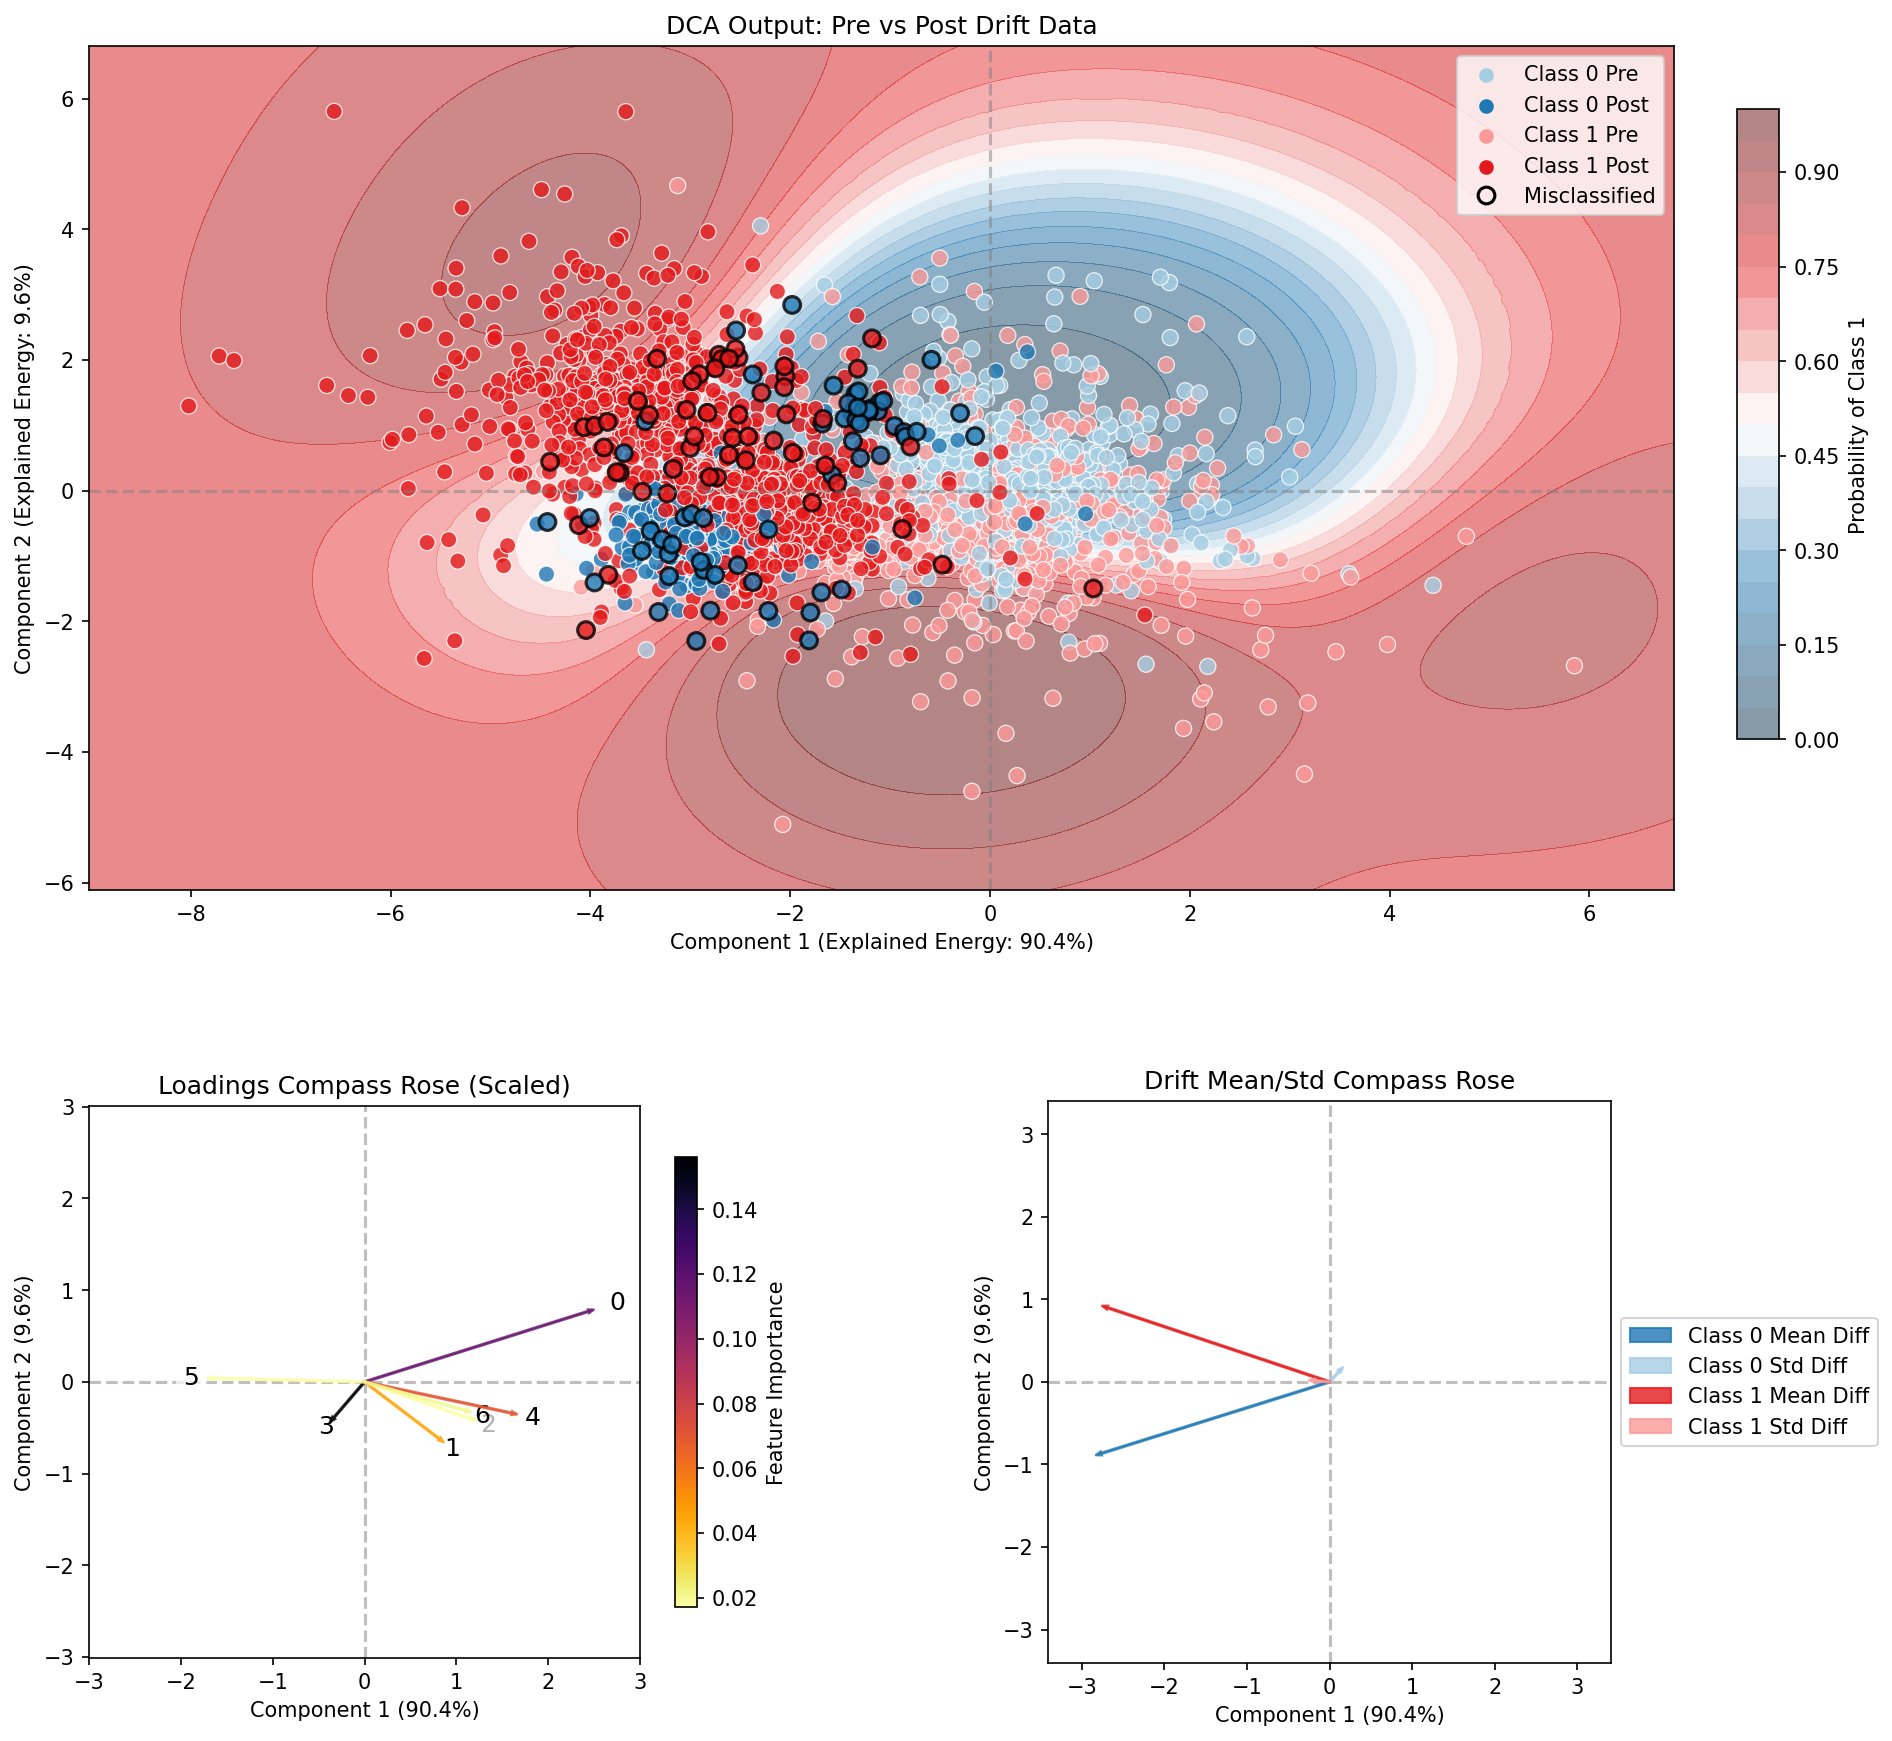
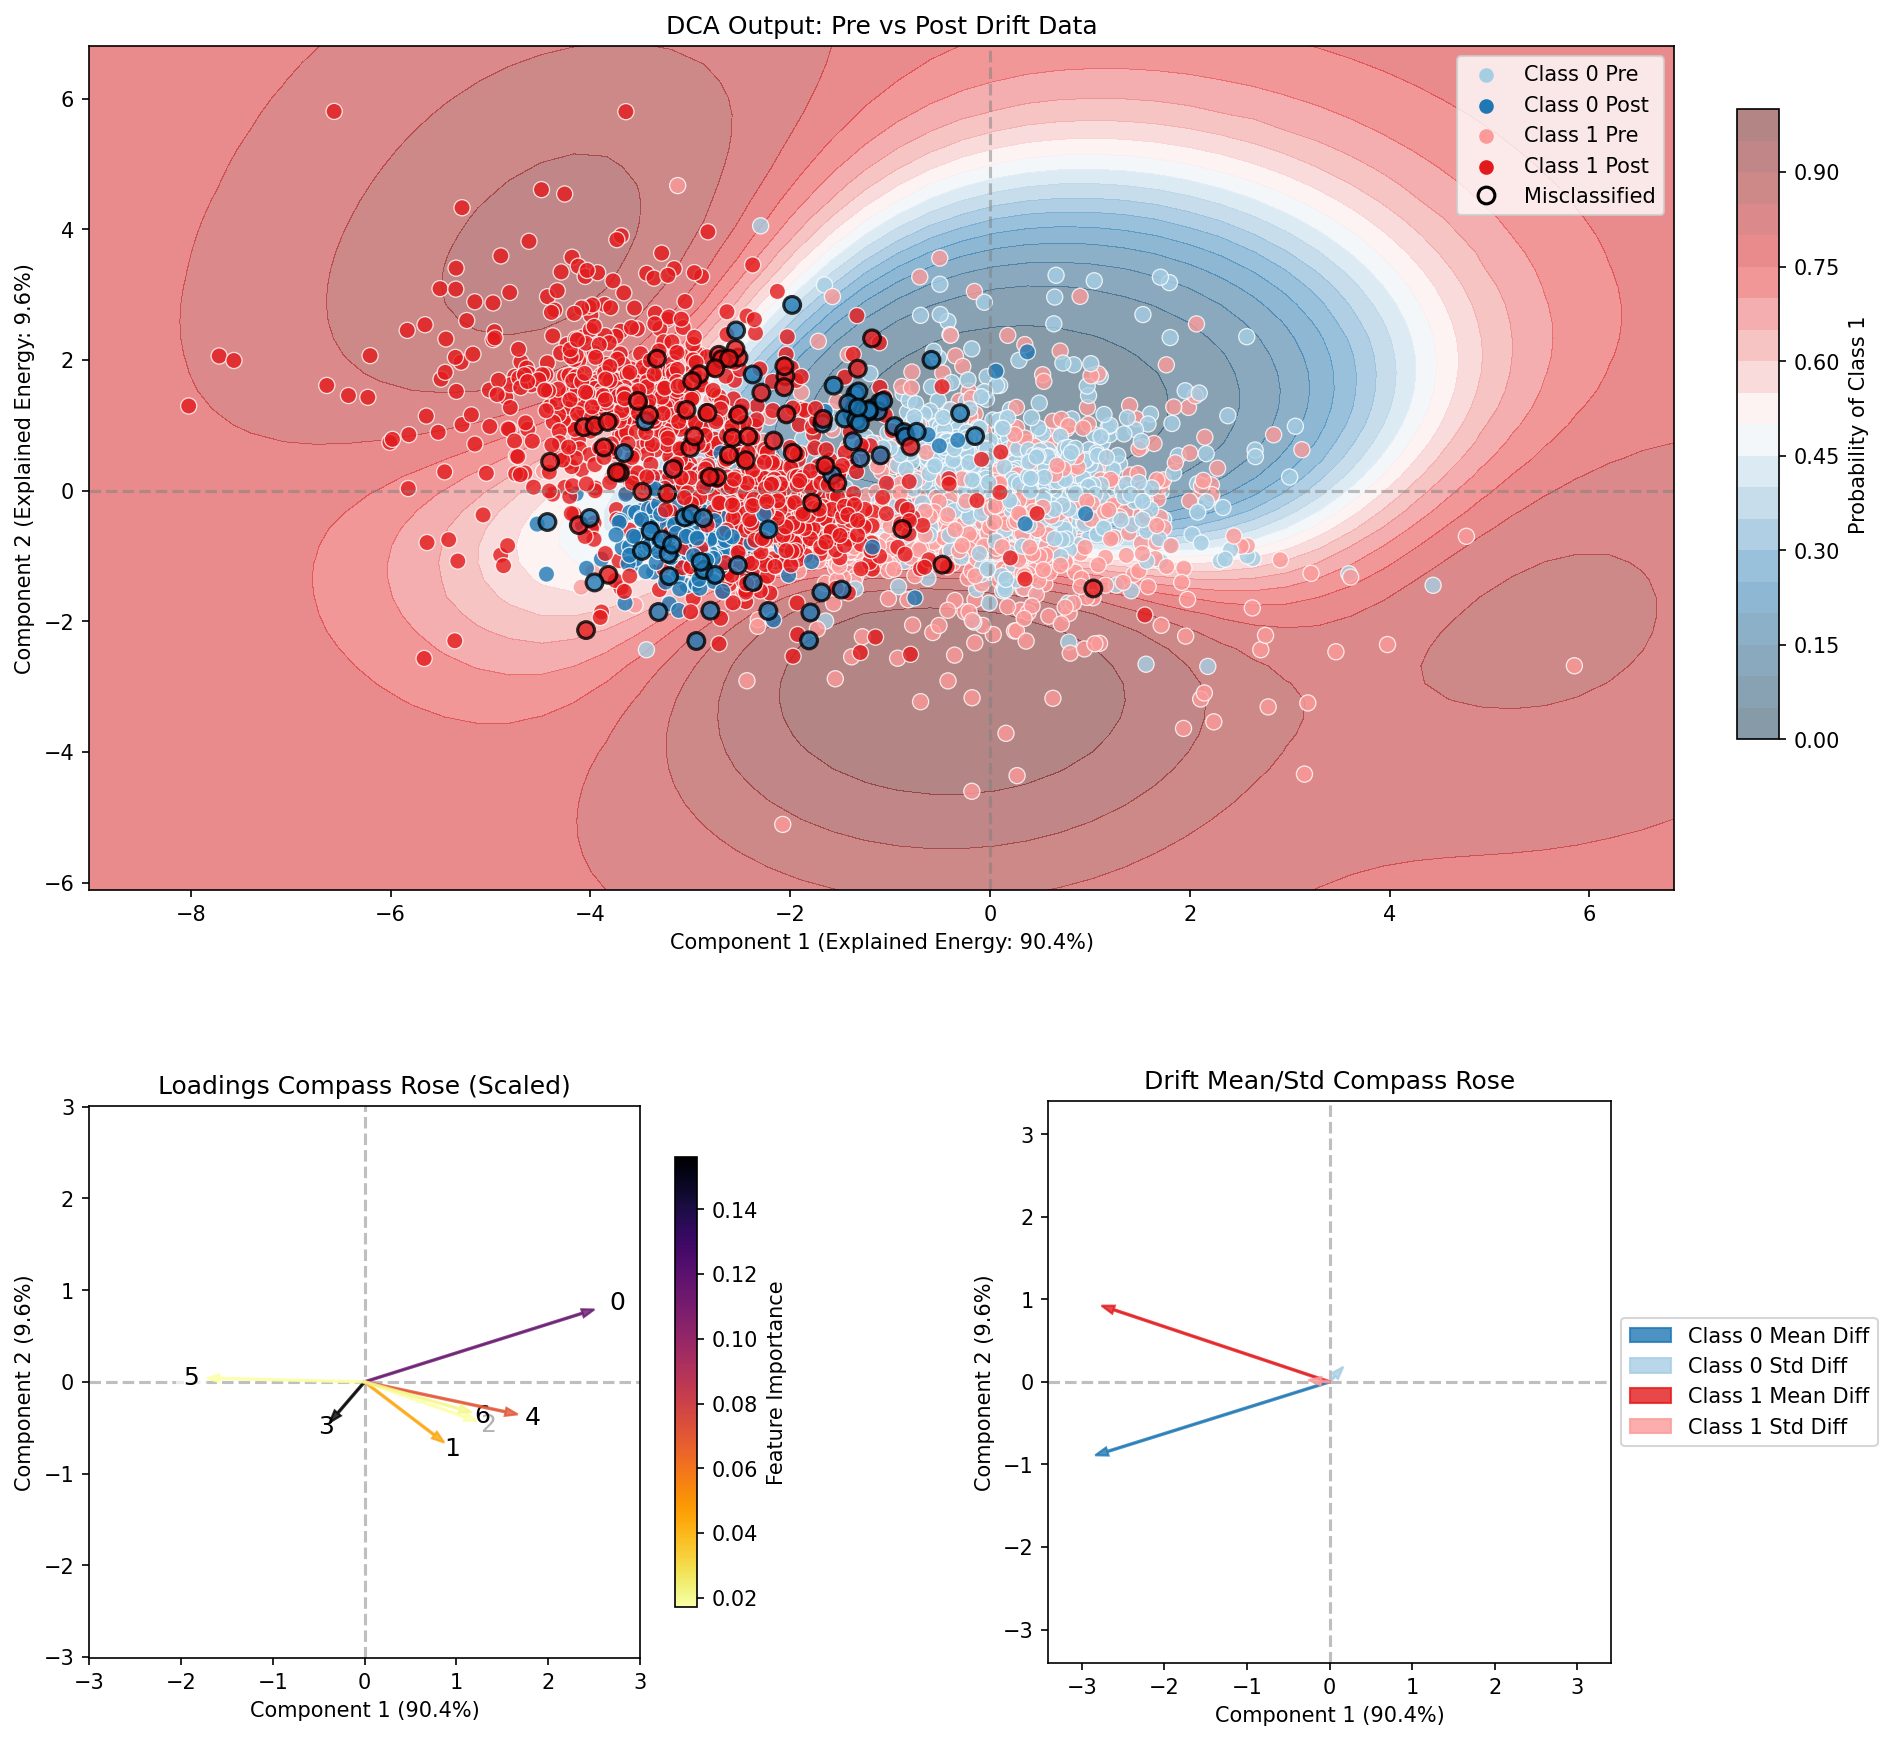
Add gradual alpha

diff --git a/analysis_methods/dca2_utils.py b/analysis_methods/dca2_utils.py
@@ -45,9 +45,6 @@ def plot_dca_scatter(X_pre, y_pre, X_post, y_post, dca, ax,
     X_post_proj = dca.transform(X_post)
     
     classes = np.unique(np.concatenate([y_pre, y_post]))
-    if color_scheme == 'class' and len(classes) > 6:
-        logger.warning(f"Too many classes ({len(classes)}) for paired class palette. Maximum is 6.")
-        raise ValueError(f"Too many classes ({len(classes)}) for paired class palette. Maximum is 6.")
         
     # Set hue strings
     if color_scheme == 'drift':
@@ -82,8 +79,8 @@ def plot_dca_scatter(X_pre, y_pre, X_post, y_post, dca, ax,
             return mcolors.to_hex([c * factor for c in rgb])
 
         full_palette = get_paired_class_palette()
-        light_colors = [full_palette[2*i] for i in range(len(classes))]
-        dark_colors = [full_palette[2*i+1] for i in range(len(classes))]
+        light_colors = [full_palette[(2*i) % len(full_palette)] for i in range(len(classes))]
+        dark_colors = [full_palette[(2*i+1) % len(full_palette)] for i in range(len(classes))]
         extreme_colors = [darken_hex(c) for c in dark_colors]
         class_to_idx = {c: i for i, c in enumerate(classes)}
         
@@ -110,7 +107,7 @@ def plot_dca_scatter(X_pre, y_pre, X_post, y_post, dca, ax,
         hue_order = ["Pre-drift", "Post-drift"]
     else:
         full_palette = get_paired_class_palette()
-        palette = full_palette[:len(classes)*2]
+        palette = [full_palette[i % len(full_palette)] for i in range(len(classes)*2)]
         hue_order = []
         for c in classes:
             hue_order.extend([f"Class {c} Pre", f"Class {c} Post"])
@@ -126,6 +123,8 @@ def plot_dca_scatter(X_pre, y_pre, X_post, y_post, dca, ax,
             misclassified_flag = (y_post != y_post_pred)
         else:
             misclassified_flag = np.zeros(len(y_post), dtype=bool)
+            
+        ages = np.linspace(0.4, 0.95, len(y_post)) if drift_type == 'gradual' else np.full(len(y_post), 0.8)
     else:
         plot_df = pd.DataFrame({
             "Component 1": np.concatenate([X_pre_proj[:, 0], X_post_proj[:, 0]]),
@@ -138,34 +137,62 @@ def plot_dca_scatter(X_pre, y_pre, X_post, y_post, dca, ax,
             misclassified_flag = np.concatenate([np.zeros(len(y_pre), dtype=bool), misclassified])
         else:
             misclassified_flag = np.zeros(len(y_pre) + len(y_post), dtype=bool)
+            
+        if drift_type == 'gradual':
+            ages = np.concatenate([
+                np.linspace(0.4, 0.95, len(y_pre)), 
+                np.linspace(0.4, 0.95, len(y_post))
+            ])
+        else:
+            ages = np.full(len(y_pre) + len(y_post), 0.8)
 
     plot_df["Misclassified_Flag"] = misclassified_flag
+    plot_df["Age"] = ages
+
+    # Map labels to base colors
+    color_map = {label: mcolors.to_rgb(color) for label, color in zip(hue_order, palette)}
+    base_colors = np.array([color_map[label] for label in plot_df["Label"]])
+    
+    # Calculate RGBA values for all points
+    rgba_colors = np.zeros((len(plot_df), 4))
+    rgba_colors[:, :3] = base_colors
+    rgba_colors[:, 3] = plot_df["Age"].values
+    
+    correct_mask = ~plot_df["Misclassified_Flag"].values
+    misclassified_mask = plot_df["Misclassified_Flag"].values
+    
+    # Plot correctly classified (in natural array order to preserve z-order across time)
+    if np.any(correct_mask):
+        ax.scatter(plot_df["Component 1"].values[correct_mask], 
+                   plot_df["Component 2"].values[correct_mask], 
+                   c=rgba_colors[correct_mask], s=60, edgecolors='white', linewidth=0.5)
+                   
+    # Plot misclassified on top
+    if np.any(misclassified_mask):
+        ax.scatter(plot_df["Component 1"].values[misclassified_mask], 
+                   plot_df["Component 2"].values[misclassified_mask], 
+                   c=rgba_colors[misclassified_mask], s=65, edgecolors='black', linewidth=1.5)
+
+    # Add legend entries manually
+    handles = []
+    labels = []
+    for label, color in zip(hue_order, palette):
+        if label not in plot_df["Label"].values:
+            continue
+        handle = mlines.Line2D([], [], color='none', marker='o',
+                               markerfacecolor=color, markeredgecolor='white',
+                               markersize=8, label=label, alpha=0.8)
+        handles.append(handle)
+        labels.append(label)
 
     if highlight_misclassifications and pre_drift_model is not None:
-        # Plot correctly classified points and pre-drift points normally
-        sns.scatterplot(
-            data=plot_df[~plot_df["Misclassified_Flag"]], x="Component 1", y="Component 2", hue="Label",
-            palette=palette, hue_order=hue_order, alpha=0.8, s=60, ax=ax, legend=True
-        )
-        # Overlay misclassified points with a prominent black border
-        sns.scatterplot(
-            data=plot_df[plot_df["Misclassified_Flag"]], x="Component 1", y="Component 2", hue="Label",
-            palette=palette, hue_order=hue_order, alpha=0.8, s=65, edgecolor="black", linewidth=1.5, ax=ax, legend=False
-        )
-        
-        # Add custom legend entry for misclassifications
-        handles, labels = ax.get_legend_handles_labels()
         misclassified_handle = mlines.Line2D([], [], color='none', marker='o', 
                                              markeredgecolor='black', markerfacecolor='none', 
                                              markersize=8, markeredgewidth=1.5, label='Misclassified')
         handles.append(misclassified_handle)
         labels.append('Misclassified')
-        ax.legend(handles=handles, labels=labels)
-    else:
-        sns.scatterplot(
-            data=plot_df, x="Component 1", y="Component 2", hue="Label",
-            palette=palette, hue_order=hue_order, alpha=0.8, s=60, ax=ax
-        )
+
+    ax.legend(handles=handles, labels=labels)
     
     ax.axhline(0, color='grey', linestyle='--', alpha=0.5)
     ax.axvline(0, color='grey', linestyle='--', alpha=0.5)
@@ -275,11 +302,11 @@ def plot_drift_compass(dca, ax, classes=None, color_scheme='class'):
         if classes is not None and len(vectors_trans) == len(classes) * 2:
             for i, c in enumerate(classes):
                 labels.extend([f"Class {c} Mean Diff", f"Class {c} Std Diff"])
-                colors.extend([full_palette[2*i+1], full_palette[2*i]])
+                colors.extend([full_palette[(2*i+1) % len(full_palette)], full_palette[(2*i) % len(full_palette)]])
         else:
             for i in range(len(vectors_trans)//2):
                 labels.extend([f"C{i} Mean Diff", f"C{i} Std Diff"])
-                colors.extend([full_palette[2*i+1], full_palette[2*i]])
+                colors.extend([full_palette[(2*i+1) % len(full_palette)], full_palette[(2*i) % len(full_palette)]])
                 
     for i, vec in enumerate(vectors_trans):
         color = colors[i % len(colors)]

diff --git a/scripts/run_dca.py b/scripts/run_dca.py
@@ -55,8 +55,6 @@ def load_and_scale_data(dataset_name="sea", data_dir="stream_datasets", ignore_c
         classes = np.array([0])
     else:
         classes = np.unique(np.concatenate([y_pre, y_post]))
-        if len(classes) > 6:
-            raise ValueError(f"Dataset {dataset_name} has {len(classes)} classes. Maximum supported is 6.")
 
     # Scale data
     scaler = StandardScaler()
